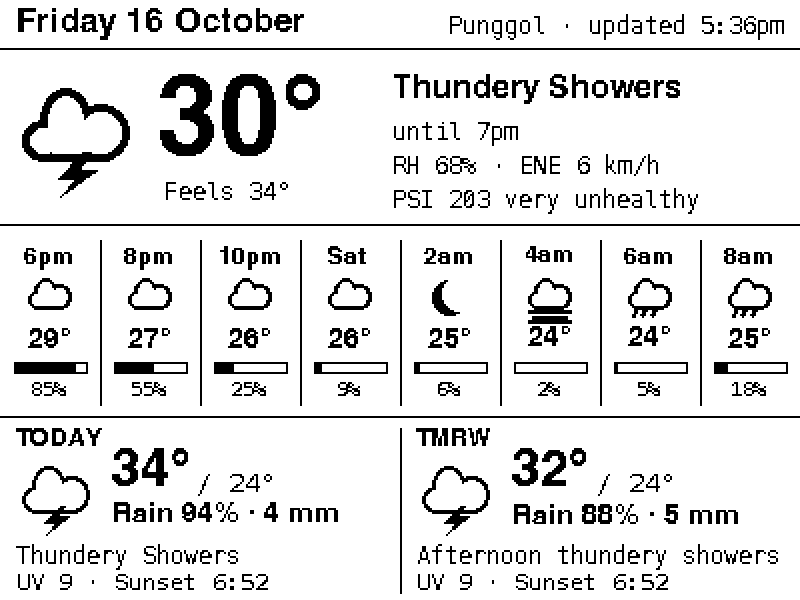
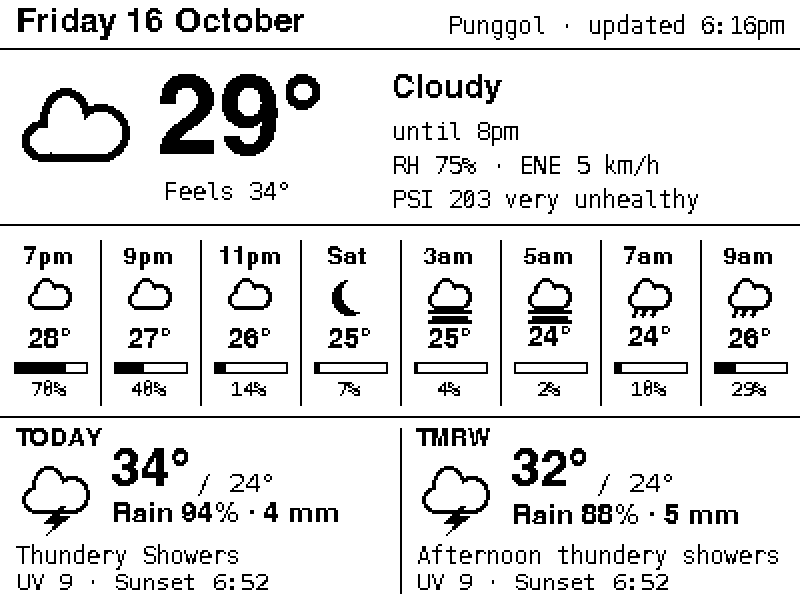
Make note (haiku) the default layout; model override for llm.chat; README screenshots

diff --git a/screens/quip.py b/screens/quip.py
@@ -80,7 +80,7 @@ def clean(text: str) -> str:
     return "\n".join(lines)
 
 
-def generate(fc: Forecast, data: dict, attempts: int = 4) -> tuple[str, str]:
+def generate(fc: Forecast, data: dict, attempts: int = 4, model: str | None = None) -> tuple[str, str]:
     """Ask the model until a reply passes validation. Returns (haiku, model).
 
     openrouter/free picks a random free model per request, and some of them are useless here (a
@@ -90,15 +90,15 @@ def generate(fc: Forecast, data: dict, attempts: int = 4) -> tuple[str, str]:
     prompt, problems = base, []
     for _ in range(attempts):
         try:
-            text, model = llm.chat(SYSTEM, prompt)
+            text, used = llm.chat(SYSTEM, prompt, model=model)
         except Exception as exc:
             problems.append(str(exc))
             continue
         text = clean(text)
         words, lines = len(text.split()), len(text.splitlines())
         if lines == 3 and MIN_WORDS <= words <= MAX_WORDS and fits(text):
-            return text, model
-        problems.append(f"{model}: {lines} lines, {words} words")
+            return text, used
+        problems.append(f"{used}: {lines} lines, {words} words")
         prompt = base + (f"\n\nA previous answer had {lines} lines and {words} words. "
                          "Reply with exactly three short lines (5-7-5 syllables).")
     raise RuntimeError("no usable haiku: " + "; ".join(problems))

diff --git a/epd/llm.py b/epd/llm.py
@@ -24,14 +24,16 @@ def configured() -> bool:
     return bool(load_env().get("OPENROUTER_API_KEY"))
 
 
-def chat(system: str, user: str, max_tokens: int = 4000, timeout: float = 90) -> tuple[str, str]:
-    """Return (reply text, model that answered). Raises on HTTP/API errors or an empty reply."""
+def chat(system: str, user: str, max_tokens: int = 4000, timeout: float = 90,
+         model: str | None = None) -> tuple[str, str]:
+    """Return (reply text, model that answered). `model` overrides OPENROUTER_MODEL.
+    Raises on HTTP/API errors or an empty reply."""
     env = load_env()
     key = env.get("OPENROUTER_API_KEY")
     if not key:
         raise RuntimeError("OPENROUTER_API_KEY not set in .env")
     body = {
-        "model": env.get("OPENROUTER_MODEL") or "openrouter/free",
+        "model": model or env.get("OPENROUTER_MODEL") or "openrouter/free",
         "messages": [{"role": "system", "content": system}, {"role": "user", "content": user}],
         "max_tokens": max_tokens,
         "temperature": 0.9,

diff --git a/README.md b/README.md
@@ -6,9 +6,9 @@ The Mac renders screens with Pillow and pushes them over BLE. The display itself
 - **Device reference (hardware, firmware, BLE protocol, quirks):** [docs/DEVICE.md](docs/DEVICE.md)
 - **Device:** `NRF_EPD_5E5D`, a non-public variant of [tsl0922/EPD-nRF5](https://github.com/tsl0922/EPD-nRF5) firmware (`v1.10-nrf52811`)
 
-| `glance` (default) | `rain` |
-| --- | --- |
-| ![glance layout](docs/images/glance.png) | ![rain layout](docs/images/rain.png) |
+| `note` (default) | `glance` | `rain` |
+| --- | --- | --- |
+| ![note layout](docs/images/note.png) | ![glance layout](docs/images/glance.png) | ![rain layout](docs/images/rain.png) |
 
 Exact 1-bit frames as sent to the panel, shown at 2×, with live Punggol data from a hazy, showery October afternoon. Regenerate with `uv run python tools/screenshots.py`.
 
@@ -40,9 +40,9 @@ Switch with `epd.cli use <name>`. The choice is stored in [`config.toml`](config
 
 | Name | What it shows | Use when |
 | --- | --- | --- |
-| `glance` **(default, layout A)** | Header · big icon + temperature (top-aligned with the condition), NEA condition, "until 6.30pm", haze line only if PSI > 100 · next 12 h as 4 slots 3 h apart (hour, icon, temp, rain bar) · Today and Tmrw as one line each (icon, high/low, rain %) | Everyday |
+| `glance` (layout A) | Header · big icon + temperature (top-aligned with the condition), NEA condition, "until 6.30pm", haze line only if PSI > 100 · next 12 h as 4 slots 3 h apart (hour, icon, temp, rain bar) · Today and Tmrw as one line each (icon, high/low, rain %) | Everyday |
 | `rain` (layout B) | Header · headline that answers "when does it rain?" ("Rain 6pm–9pm", "Rain tmrw from 11am", "Dry next 24 hours") + PSI if > 100 · "Now 30° · thundery showers" · 24 h chance-of-rain bar chart with a dotted 50% line · Today/Tmrw high/low | Wet-season days |
-| `note` | Header · compact now block (icon + temperature, condition, until/haze) spanning 4 of 6 columns · side panel with an **LLM-written weather haiku** · next 12 h as 6 slots 2 h apart · Today/Tmrw lines | When you want a little personality |
+| `note` **(default)** | Header · compact now block (icon + temperature, condition, until/haze) spanning 4 of 6 columns · side panel with an **LLM-written weather haiku** · next 12 h as 6 slots 2 h apart · Today/Tmrw lines | When you want a little personality |
 | `detailed` | The original dense screen: now block with RH/wind/PSI, 8 hourly slots 2 h apart, Today/Tmrw cards with rain mm, UV, sunset | Reference only. Too dense to read on the panel |
 
 The shared header on `glance` and `rain`: date left; place and time right; `BATT LOW` only when the battery is low.
